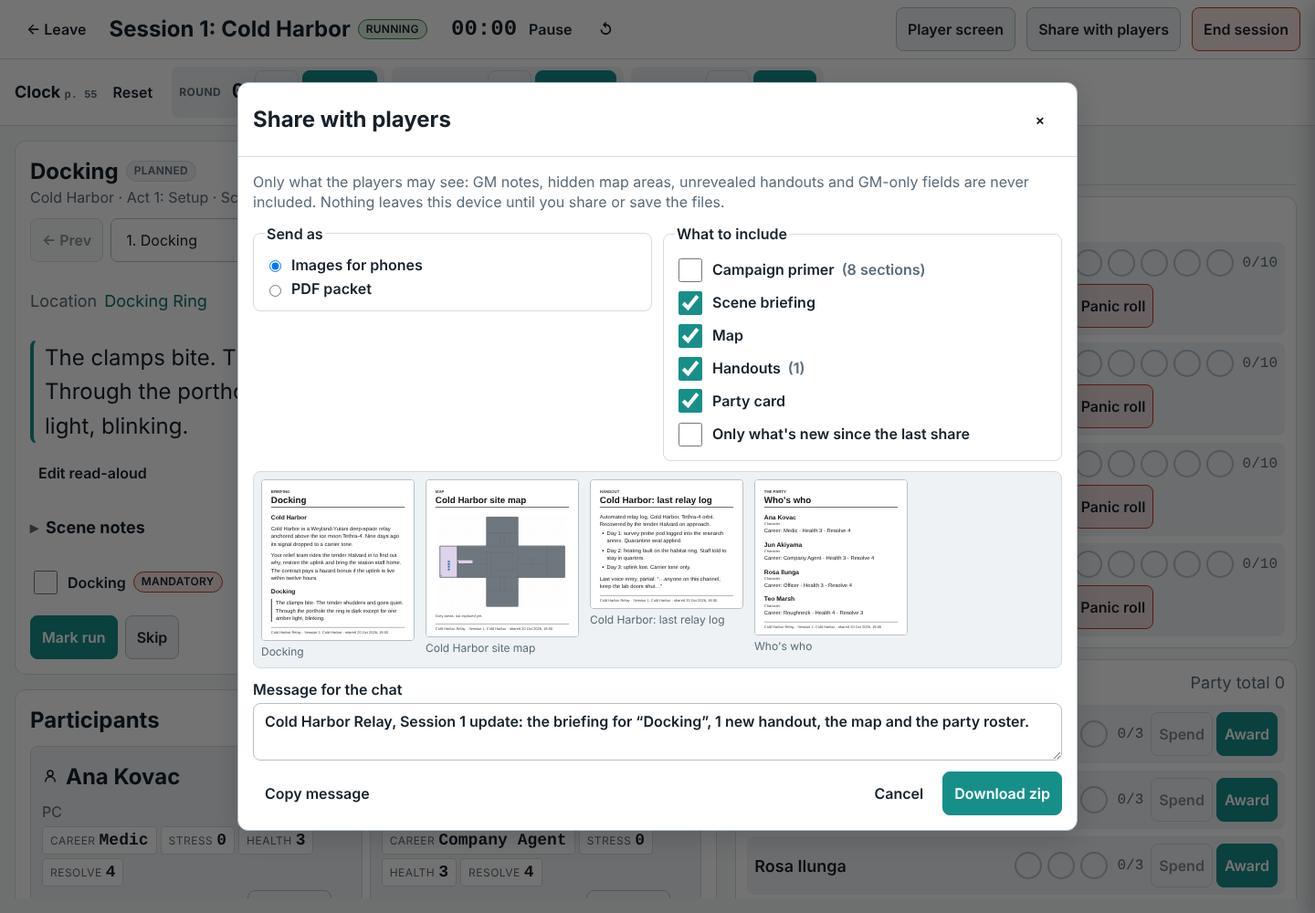
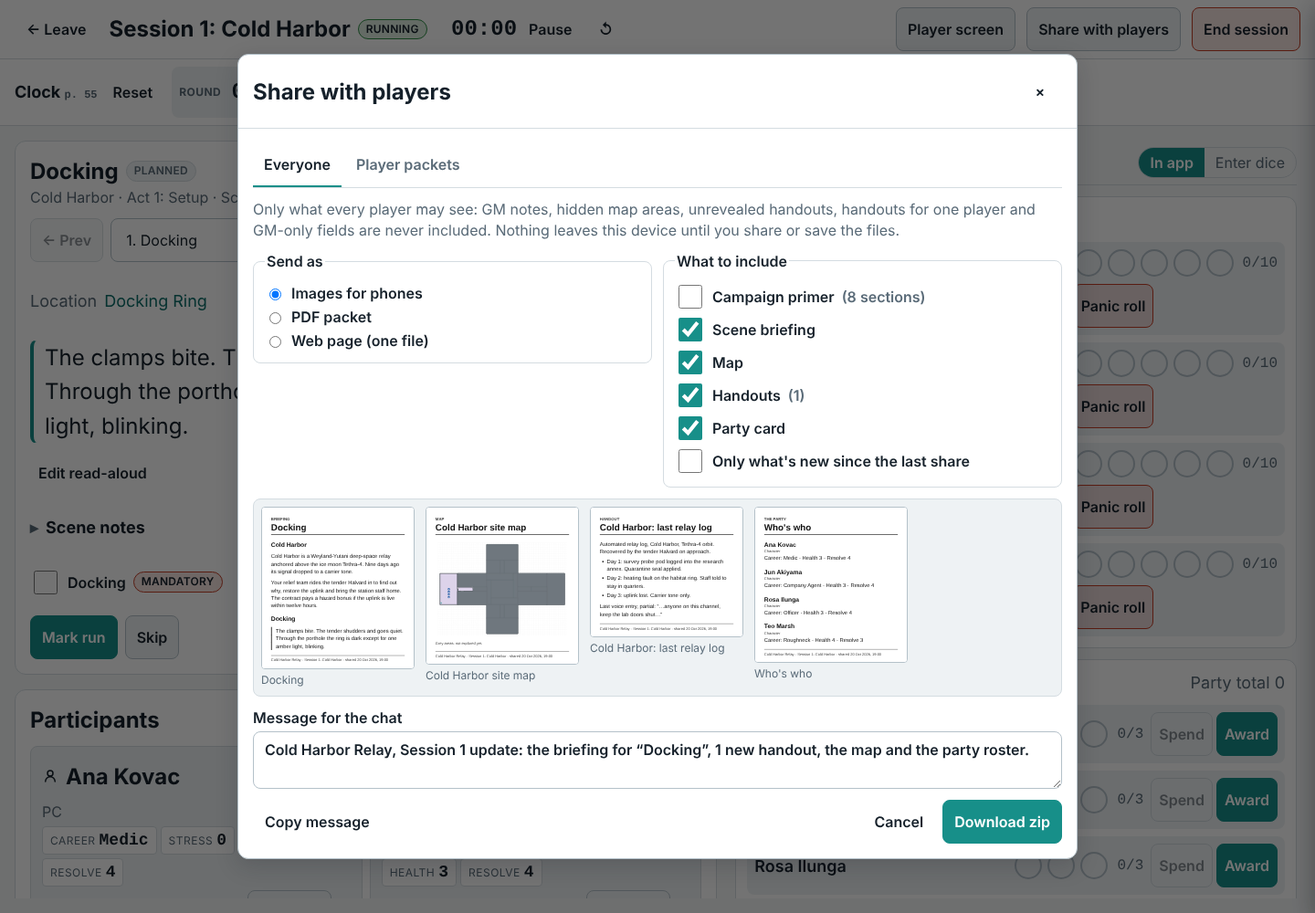
Publish player packets: e2e, screenshot and feature pages
The e2e adds two players in Settings on Cold Harbor, gives Avery her act 1
agenda, shares a new handout with her alone, exports both packets as web
pages in one zip and opens them: Avery's holds her agenda, sheet and the
handout, Blake's none of them. The player-packets shot shows Skyfire
Down's four players with Priya's page; share-players is re-shot with the
new tabs and web page format. app.md, alien.md and the README say what
packets do and how agendas reach their players.

Claude-Session: https://claude.ai/code/session_01PjoAoT19ZxbEizz2Vq94tE

Changed region(s): [[0.1562, 0.062, 0.8438, 0.961], [0.8438, 0.155, 0.9688, 0.217]]

diff --git a/apps/web/e2e/player-packets.spec.ts b/apps/web/e2e/player-packets.spec.ts
@@ -1,0 +1,144 @@
+/**
+ * Player packets end to end on the Cold Harbor demo: add two players in
+ * Settings, give Avery her act 1 agenda, share a new handout with her alone,
+ * export every player's packet as web pages in one zip, then open Avery's
+ * page: her agenda, her sheet and the shared handout. Blake's page holds none
+ * of Avery's private items. `SHARE_OUT=<dir>` keeps the downloads.
+ */
+import { mkdirSync, readFileSync, writeFileSync } from "node:fs";
+import { resolve } from "node:path";
+import { expect, test, type Download, type Page } from "@playwright/test";
+import { strFromU8, unzipSync } from "fflate";
+
+const OUT = process.env.SHARE_OUT;
+
+async function bytesOf(d: Download): Promise<Buffer> {
+  const buf = readFileSync(await d.path());
+  if (OUT) {
+    mkdirSync(OUT, { recursive: true });
+    writeFileSync(resolve(OUT, d.suggestedFilename()), buf);
+  }
+  return buf;
+}
+
+const nav = (page: Page, name: string) => page.getByRole("navigation", { name: "Campaign" }).getByRole("link", { name, exact: true });
+
+async function addPlayer(page: Page, name: string, contact: string, pcIndex: number): Promise<string> {
+  const card = page.getByTestId("players-card");
+  await card.getByTestId("player-new-name").fill(name);
+  await card.getByTestId("player-new-contact").fill(contact);
+  await card.getByTestId("player-add").click();
+  const pcs = card.getByRole("group", { name: `Characters ${name} plays` });
+  await expect(pcs).toBeVisible();
+  const chip = pcs.getByRole("checkbox").nth(pcIndex);
+  const label = (await chip.getAttribute("aria-label")) ?? "";
+  await chip.check();
+  await expect(chip).toBeChecked();
+  return label.replace(`${name} plays `, "");
+}
+
+test("player packets: each player gets their own agenda, sheet and shared handout, and nothing of another's", async ({ page, context }) => {
+  test.setTimeout(120_000);
+  const errors: string[] = [];
+  page.on("pageerror", (e) => errors.push(e.message));
+  // this browser shares no files: the desktop download path
+  await page.addInitScript(() => {
+    delete (Navigator.prototype as { share?: unknown }).share;
+    delete (Navigator.prototype as { canShare?: unknown }).canShare;
+  });
+  await page.setViewportSize({ width: 1400, height: 1000 });
+  await page.goto("/");
+  await page.getByTestId("load-demo-cinematic").click();
+  await expect(page).toHaveURL(/\/c\/[0-9A-Z]{26}\/home$/, { timeout: 30_000 });
+
+  // 1. players in Settings, each with a PC
+  await nav(page, "Settings").click();
+  await expect(page.getByTestId("players-card")).toBeVisible();
+  const avPc = await addPlayer(page, "Avery", "@avery in the group chat", 0);
+  const blPc = await addPlayer(page, "Blake", "@blake", 1);
+  expect(avPc).not.toBe(blPc);
+  await expect(page.getByTestId("player-row")).toHaveCount(2);
+
+  // 2. the act's handouts: give Avery her act 1 agenda, and share a new handout with her alone
+  await nav(page, "Adventures").click();
+  await page.getByTestId("adventure-card").filter({ hasText: "Cold Harbor" }).click();
+  await page.getByTestId("view-outline").click();
+  const outline = page.getByTestId("outline");
+  await outline.getByRole("button", { name: /^Act 1/ }).click();
+  const act = page.getByTestId("act-editor");
+  await expect(act).toBeVisible();
+  const give = act.getByRole("checkbox", { name: /to Avery$/ });
+  await expect(give).toHaveCount(1);
+  await give.check();
+  await expect(give).toBeChecked();
+  const avAgendaRow = act.locator("li.prep-handout").filter({ has: page.getByRole("checkbox", { name: /to Avery$/ }) });
+  await avAgendaRow.getByRole("button", { name: /^Expand / }).click();
+  const avAgendaText = ((await avAgendaRow.locator(".ProseMirror").innerText()) ?? "").trim().split("\n")[0]!.trim();
+  expect(avAgendaText.length).toBeGreaterThan(10);
+
+  await act.getByRole("button", { name: "+ Handout" }).click();
+  // the new handout is the last row (agendas list first)
+  const row = act.locator("li.prep-handout").last();
+  const title = row.getByLabel("Handout title");
+  await expect(title).toHaveValue("New handout");
+  await title.fill("Coded message for Avery");
+  await title.press("Enter");
+  await expect(title).toHaveValue("Coded message for Avery");
+  await row.getByLabel("Visibility", { exact: true }).selectOption("some_players");
+  await row.getByRole("checkbox", { name: "Share with Avery" }).check();
+  await row.getByRole("button", { name: /^Expand / }).click();
+  await row.locator(".ProseMirror").click();
+  await page.keyboard.type("Meet me at the cargo airlock at 0300. Come alone.");
+  await page.waitForTimeout(400);
+
+  // 3. Share, Player packets: a preview per player, then all of them as a zip
+  await nav(page, "Sessions").click();
+  await page.getByRole("button", { name: "Start session 1" }).click();
+  await expect(page.getByTestId("table-mode")).toBeVisible();
+  await page.getByTestId("share-players").click();
+  await page.getByRole("tab", { name: /Player packets/ }).click();
+  const dialog = page.getByTestId("packets-dialog");
+  await expect(dialog.getByTestId("packet-player")).toHaveCount(2);
+  await expect(dialog.getByTestId("packet-title")).toHaveText(/^Cold Harbor Relay for Avery: Session 1/);
+  const preview = dialog.frameLocator("[data-testid=share-preview-page]");
+  await expect(preview.getByRole("heading", { name: "Cold Harbor Relay for Avery" })).toBeVisible();
+  await expect(preview.getByRole("heading", { name: "Coded message for Avery" })).toBeVisible();
+  await dialog.getByRole("button", { name: "Preview Blake's packet" }).click();
+  await expect(dialog.getByTestId("packet-title")).toHaveText(/^Cold Harbor Relay for Blake: Session 1/);
+  await expect(preview.getByRole("heading", { name: "Cold Harbor Relay for Blake" })).toBeVisible();
+  await expect(preview.locator("body")).not.toContainText("Coded message for Avery");
+
+  const download = page.waitForEvent("download");
+  await dialog.getByTestId("packets-export-all").click();
+  const zip = await download;
+  expect(zip.suggestedFilename()).toBe("cold-harbor-relay-session-1-player-packets.zip");
+  const files = unzipSync(new Uint8Array(await bytesOf(zip)));
+  expect(Object.keys(files).sort()).toEqual(["cold-harbor-relay-session-1-for-avery.html", "cold-harbor-relay-session-1-for-blake.html"]);
+  const avery = strFromU8(files["cold-harbor-relay-session-1-for-avery.html"]!);
+  const blake = strFromU8(files["cold-harbor-relay-session-1-for-blake.html"]!);
+
+  // 4. open Avery's packet: her agenda, her sheet and the handout shared with her
+  const reader = await context.newPage();
+  await reader.setContent(avery);
+  await expect(reader).toHaveTitle(/^Cold Harbor Relay for Avery: Session 1/);
+  await expect(reader.getByRole("heading", { name: avPc, exact: true })).toBeVisible();
+  await expect(reader.locator("section[data-kind=character]")).toContainText("Stress");
+  await expect(reader.getByText(avAgendaText, { exact: false })).toBeVisible();
+  await expect(reader.locator("section", { hasText: "Coded message for Avery" })).toContainText("Meet me at the cargo airlock");
+  await expect(reader.locator("section", { hasText: "Coded message for Avery" }).locator(".eyebrow")).toHaveText("Just for Avery");
+  await expect(reader.locator("body")).not.toContainText("@avery");
+
+  // Blake's packet: his own sheet, none of Avery's private items
+  await reader.setContent(blake);
+  await expect(reader.getByRole("heading", { name: blPc, exact: true })).toBeVisible();
+  const body = reader.locator("body");
+  await expect(body).not.toContainText("Coded message for Avery");
+  await expect(body).not.toContainText("Meet me at the cargo airlock");
+  await expect(body).not.toContainText(avAgendaText);
+  await expect(reader.locator("section[data-kind=character]")).toHaveCount(1);
+  await reader.close();
+
+  // the packets were recorded per player: the dialog now says what changed since each one
+  await expect(page.getByTestId("packet-changes").first()).toContainText("Since");
+  expect(errors).toEqual([]);
+});

diff --git a/apps/web/screenshots/readme.spec.ts b/apps/web/screenshots/readme.spec.ts
@@ -611,6 +611,25 @@ test("share-players", async ({ page }) => {
   await shot(page, "share-players");
 });
 
+test("player-packets", async ({ page }) => {
+  // Skyfire Down session 1: Share, Player packets: the four players, and Priya's packet as the web page she gets (her sheet, her agenda, the note shared with her alone)
+  await page.setViewportSize({ width: 1440, height: 1100 });
+  await loadDemo(page, "skyfire");
+  await startSession1(page);
+  await page.getByTestId("share-players").click();
+  await page.getByRole("tab", { name: /Player packets/ }).click();
+  const dialog = page.getByTestId("packets-dialog");
+  await expect(dialog.getByTestId("packet-player")).toHaveCount(4);
+  await dialog.getByRole("button", { name: "Preview Priya's packet" }).click();
+  await expect(dialog.getByTestId("packet-title")).toHaveText(/^Skyfire Down for Priya/);
+  const preview = dialog.frameLocator("[data-testid=share-preview-page]");
+  await expect(preview.getByRole("heading", { name: "An unsigned note" })).toBeVisible();
+  await expect(dialog.getByTestId("packet-send")).toBeEnabled();
+  // the players at the top, Priya's page below them
+  await dialog.locator(".app-packets").evaluate((el) => el.scrollIntoView({ block: "start" }));
+  await shot(page, "player-packets");
+});
+
 test("primer", async ({ page }) => {
   // Cold Harbor's campaign primer: the module's prompts in grey, the demo's own text, places drafted from player-visible locations
   await page.setViewportSize({ width: 1440, height: 1000 });

diff --git a/apps/web/src/features/share/shareLayout.ts b/apps/web/src/features/share/shareLayout.ts
@@ -205,7 +205,9 @@ export function packetSections(input: ShareLayoutInput & { share: PlayerPacket }
     if (c.conditions.length) blocks.push({ kind: "para", text: `Conditions: ${c.conditions.join(", ")}`, style: "lead" });
     for (const s of c.sections) {
       blocks.push({ kind: "heading", text: s.title });
-      for (const r of s.rows) blocks.push({ kind: "para", text: `${r.label}: ${r.value}`, style: "bullet" });
+      // a section that is one field of the same name (Gear, Skills) reads as its value
+      if (s.rows.length === 1 && s.rows[0]!.label === s.title) blocks.push({ kind: "para", text: s.rows[0]!.value });
+      else for (const r of s.rows) blocks.push({ kind: "para", text: `${r.label}: ${r.value}`, style: "bullet" });
     }
     out.push({ id: `character:${c.id}`, kind: "character", eyebrow: share.characters.length > 1 ? "One of your characters" : "Your character", title: c.name, blocks, file: `sheet-${slugOf(c.name)}` });
     if (c.agenda) {

diff --git a/apps/web/src/features/share/share.css b/apps/web/src/features/share/share.css
@@ -99,7 +99,7 @@
   margin: 0;
   padding: 0;
   display: grid;
-  grid-template-columns: repeat(auto-fill, minmax(260px, 1fr));
+  grid-template-columns: repeat(auto-fill, minmax(190px, 1fr));
   gap: var(--cf-space-2);
 }
 .app-packets__player {

diff --git a/docs/features/app.md b/docs/features/app.md
@@ -17,7 +17,8 @@ What Campaign Forge does for every game system. Features that belong to one game
 - **Table tools.** Scene cards, rounds/stretches/shifts clock, stress and panic roller, critical injuries (including the android table), initiative cards, supply rolls, countdowns, a xenomorph life-cycle tracker and a session checklist that modules extend. A Hints tab says what each attribute and skill is for in the story and rolls it for the best-placed PC.
 - **Combat for d20 games.** Modules and data packs that declare their d20 combat (where a combatant's AC, hit points, saves, damage modifiers and attacks live, how attacks and saves resolve, their conditions) get a combat panel in table mode: the initiative order with the current turn (*Next turn* ticks condition durations, end-of-turn decrements and save-ends saves), hit points with damage, healing and temporary hit points, AC and speed with their conditions, and condition chips whose helper text says what each condition does, what the app applies by itself, what it leaves to the GM, how long it lasts and where it came from. Attacks pick an attacker, one of its attacks (from a stat block or a sheet) and a target, roll with advantage or disadvantage from the conditions on both sides (the reasons shown, the GM can override), say hit, miss or critical hit and why, roll damage (critical hits as the module says) and apply it through the target's resistances, weaknesses and immunities, with the module's rule at 0 hit points; save effects roll each target's save against the DC for full or half damage and conditions. Checks and saves rolled from a sheet carry the conditions' modifiers. Every roll can be typed from the table; everything is logged for the GM only, and the player screen shows only how hurt the visible combatants are.
 - **Dice rolled at the table.** For groups who roll physical dice, every roll can take the faces instead: the roll panel, table mode's one-tap rolls (stress, panic, supply, critical injuries, broken and life-cycle checks, creature attacks and reactions, special attacks, duct events, prompt answers), initiative, travel checks and each generator step. One box per die in the order the rules read them, labelled from the dice system (base and stress dice, a d20 pair for advantage, a push's re-rolled dice only), with a 2d6 total, a d66 or a percentile typed as one number; faces the dice cannot show are refused inline. Outcomes, pushes, table rows and effects are exactly an app roll's, and the log marks the roll "entered" with its faces. A switch on each roll surface and in table mode flips between rolling in the app and entering dice; *I roll physical dice* in Settings makes entering the default on that device.
-- **Share with players.** From table mode or a session page, send the player view to the group chat without a server: phone-sized cards (the scene briefing, the map with fog exactly as the player screen shows it, each revealed handout, an optional party card) or one black-and-white PDF packet in Letter or A4. Built from the player projection only (no GM notes, hidden zones, GM map layers, unrevealed or per-player handouts, or GM-only fields), drawn on the device, then handed to the phone's share sheet (Messages, Messenger, WhatsApp) or downloaded as a zip on desktops. Each share is recorded in the session, so the next one can send only what is new, with a ready-to-paste chat message.
+- **Share with players.** From table mode or a session page, send the player view to the group chat without a server: phone-sized cards (the scene briefing, the map with fog exactly as the player screen shows it, each revealed handout, an optional party card), one black-and-white PDF packet in Letter or A4, or one self-contained web page. Built from the player projection only (no GM notes, hidden zones, GM map layers, unrevealed or per-player handouts, or GM-only fields), drawn on the device, then handed to the phone's share sheet (Messages, Messenger, WhatsApp) or downloaded as a zip on desktops. Each share is recorded in the session, so the next one can send only what is new, with a ready-to-paste chat message.
+- **Players and player packets.** Settings lists the players at the table: a name, a contact note for the GM and the PC or PCs each plays (a PC's sheet shows and sets its player). Visibility on entities, handouts and single fields (*Field visibility…* on a sheet) can name chosen players, and a handout written for a character can be given to its player. *Share with players → Player packets* then makes each player their own copy to send them alone: what every player may see, what was shared with them, and their own character's sheet and agenda with the fields the module shows a character's own player (`"x-visibility": "owner"` in the schema, `ownerHandouts` for handout kinds). Each player's preview is exactly their file, as phone images, a PDF or one self-contained web page titled "for <player>", one player at a time or all of them as a zip, with what changed since their last packet. Packets are built through that player's projection only, so GM notes, hidden map areas, GM-only fields and another player's private material never reach them; the group share still leaves every per-player item out.
 - **Campaign primer.** A player-facing introduction for session 0 (the pitch, the setting, what everyone knows, places and factions, tone and safety tools, house rules, making characters, where we begin), edited as rich text with the module's prompts and starter text in original words. *Draft from campaign* fills sections from player-visible places, factions, timeline, characters and the adventure's player intro, never from GM-only records or fields. It is linked from campaign home and session 0, and shared like a session: one phone card per section or pages of the PDF packet. Modules and data packs can supply their own prompts (`primer` in the contract and the pack format).
 - **Printed booklets.** A black-and-white GM booklet (Letter or A4) with a title page, cast cards, locations and puzzles, the site map and each act's scenes with boxed read-aloud text, plus cut-out agenda cards for the players.
 - **GM screen.** A printable quick reference for every game system, built from the module's own rule cards, tables, lists, conditions and play guide (*Rules → GM screen*): a landscape tri-fold with the GM side and a player side, on Letter, A4, 11×17 or A3, or one card per panel for a binder. Pick the panels, their order and size; the preview shows both sides at scale; type shrinks to fit, table rows never split, and anything left out is listed. Vector PDF in the booklet's black and white, with the module's licence notice and attribution and every block's page or section. Modules and data packs declare it as `gmScreen`; one without gets a screen from its rule cards. See [GM screen](../modules/gm-screen.md).
@@ -63,6 +64,10 @@ The shots use the demo campaigns (load them from the campaign list); most show t
 **Share with players**: the player-safe share of a session, previewed as the phone cards it sends (briefing, fogged map, revealed handout, party), with what to include, "only what's new" and the message for the chat.
 
 ![Share with players](../screenshots/share-players.png)
+
+**Player packets**: Skyfire Down's four players, each with what their packet holds, and Priya's packet previewed as the web page she gets: her sheet, her agenda, and the note shared with her alone.
+
+![Player packets](../screenshots/player-packets.png)
 
 **Campaign primer**: Cold Harbor's session 0 introduction, with the module's prompt above each section, the demo's own text and the places drafted from player-visible locations; *Share primer* sends it as phone cards or a PDF.
 

diff --git a/docs/features/alien.md b/docs/features/alien.md
@@ -4,13 +4,14 @@
 
 The `alien` module (`packages/module-alien`): a companion to the Free League rulebook, not a replacement. It encodes structure, tables and mechanics as data and cites the page; it does not reproduce the book's prose or art. The data has been checked against the printed Evolved Edition core rules; [`docs/verification/`](../verification/README.md) records what was corrected.
 
-Demos: *Skyfire Down* (campaign play, with an infection under way and the crew's long-term agendas one job in) and *Cold Harbor Relay* (a cinematic one-shot built with the guided builder, with a generated site map, duct levels and live map state ready for session 1).
+Demos: *Skyfire Down* (campaign play, with an infection under way, the crew's long-term agendas one job in and four players, one note shared with one of them) and *Cold Harbor Relay* (a cinematic one-shot built with the guided builder, with a generated site map, duct levels and live map state ready for session 1).
 
 ## What it adds
 
 - **Guided adventure builder.** A step-by-step cinematic scenario builder (basics, situation, cast, locations and puzzles, three acts, review) with a field guide and page references on every step.
 - **Agenda drafts.** A generator for cinematic play (no AI) that deals each PC one of 24 original three-act arcs (The Plant, The Debtor, The Protector, The Hidden Synthetic, The Mutineer…) weighted by a betrayal dial (loyal crew, frayed, knives out), and fills every slot from the campaign: who they answer to (the Company the adventure names, a rival corporation, the marshals, family, a belief, a synthetic's directive…), why, an objective per act aimed at the adventure's PCs (buddies and rivals), NPCs, key items, locations and site map rooms (fallbacks such as "the specimen" when the campaign has none), who to keep it from, and a catch. Objectives escalate from quiet in Acts 1-2 to open in Act 3 and aim at the climax, and each act notes how pursuing it earns the act's Story Point (risk or sacrifice, p. 158). A conflict check scores every pair (opposed objectives on the same target, competing masters, rivals), caps the party at one Hidden Synthetic and one Company plant, wants every PC in a clash and enough friction, and re-deals (seeded) when the deal fails, reporting each try. The drafts are marked DRAFT: re-roll or pin any slot, lock an arc, edit the text, then *Accept agendas* writes them onto each PC's sheet and the adventure's agenda cards, asking before it replaces text you wrote. Open it from the guided builder's PCs step or the Generate page.
 - **Campaign agendas.** The campaign-play counterpart (no AI): each PC gets a long-term personal goal that lasts several jobs (24 original goals such as A stake in a ship, Union card, Make amends, The captain's chair), who they answer to, why, an embarrassing secret, and a fresh beat on every job: one concrete thing to do at a personal cost, with the bonus XP it can earn (p. 27, 30). The goal's one line stays on the sheet as the personal agenda, so the XP question and shore leave's Pursue Agenda (p. 257) keep working. Open friction lines, dealt by a friction dial (calm, simmering, prickly) and weighted per crew, tell every player whom they clash with and over what: competing for pay, berths and gear, clashing loyalties, embarrassing secrets that endanger no one, and buddies and rivals from the sheets. Friction, never betrayal: every goal, beat, line, secret and tension step is tagged level 0-1, and a no-betrayal check (no stance against a crewmate, no dangerous secret, tension under its cap, everyone in a clash, nobody the target of everything) plus a banned-words scan runs on every deal. Accepting writes each goal onto the sheet, a GM-only agenda handout and a players' friction handout per PC. After each job (in the session wrap-up, or *Deal next beats* on a PC's Agenda tab) mark each goal advanced, stalled or resolved: the next beat is dealt, a stall raises the tension one step (quiet disagreement, open argument, hard words, and no further), a resolved goal draws a follow-up that fits it, and the handouts update. A rule card covers agendas in campaign play and friction, not betrayal; the GM screen has an Agendas and friction panel.
+- **Agendas reach their players.** In a player packet (*Share with players → Player packets*) each PC's player gets the sheet they play from (stats, stress, health, gear, XP, conditions) and their personal agenda with the campaign agenda's goal, this job's beat and the tension, even though all of it stays GM-only for everyone else; the agenda's embarrassing secret and history, the android box, the secret synthetic and NPC dossier fields and the other PCs' agendas stay out. A cinematic agenda card goes to its player once the GM ticks *Give to <player>* on it (on the act's handouts or the guided builder's PCs step), so each act's agenda can be handed out when that act starts. The open friction handouts already go to everyone.
 - **Combat.** Creature turns roll or pick the creature's signature attack, rank targets by range from the live map and roll the attack dice; damage tracking with health bars, armor and broken PCs; reactions such as acid splash; special attacks (disarm, shove, grapple and more) with opposed rolls. Creature rolls stay GM-only.
 - **Weapons on the character sheet.** A Weapons section beside Gear lists each weapon with its stat line as the gear tables print it (modifier, damage with E, stun or fire, range, ammo or power, features, weight), and the weapons count toward encumbrance with the gear. *Add weapon* opens a searchable picker of the book's personal weapons grouped ranged, melee and explosive (vehicle-mounted guns left out), each with modifier, damage, range, weight, cost and page; picking one copies its stats onto the sheet. *From campaign items* links a weapon item from the Atlas, and *Custom weapon* adds a row to fill in. A new PC or NPC created in the Atlas can pick starting weapons before it is saved. At the table, *Attack with …* (Dice tab, or the PC card's Attack button) rolls Close Combat at Adjacent range and Ranged Combat beyond, with the weapon's modifier and −2 per band inside its minimum range, shows the damage with extra successes, and applies the hit to a creature or NPC through its armor (armor piercing, stun and fire included); entered dice work too.
 - **Ship and money.** A Ship page for campaign play: the crew's ship with its hull, component damage, spare parts, provisions, cargo and upkeep; crew funds summed from a ledger (add entries, filter by category, running balance, CSV export); a travel planner that works out FTL time and the checks on arrival, then departs, rolls them and moves the in-world date; one-click job payments; and a Between jobs procedure for the pay, the lease, repairs and spare parts, food and water, then shore leave and the next job. Categories the book prices cite their page; docking, fuel and loans are plain GM bookkeeping.

diff --git a/README.md b/README.md
@@ -9,7 +9,7 @@ For Alien, Campaign Forge is a companion to the rulebook, not a replacement. The
 - **Local-first.** Campaigns live in the browser, work offline at the table and export to a zip bundle. No server, no accounts.
 - **Prep.** Adventures, scenes, sessions, a timeline, handouts and linked notes; characters and places rendered from each game's sheet; seeded generators with full roll provenance; printed GM booklets.
 - **At the table.** Scene cards, clocks, initiative, trackers and a Hints tab that says what each stat is for in the story and who is best at it. d20 combat with attacks, damage, saves and conditions whose helper text says what they do. Roll in the app or type in the physical dice your table rolled.
-- **For the players.** A session 0 campaign primer, and *Share with players*: the player view as phone cards or a PDF for the group chat, with nothing GM-only in it.
+- **For the players.** A session 0 campaign primer, *Share with players*: the player view as phone cards, a PDF or a web page for the group chat, with nothing GM-only in it, and a private packet per player with their own sheet, agenda and what was shared with them alone.
 - **Any game system.** Modules as TypeScript packages or JSON data packs, four dice engines, supplements for extra options, and tools to build and check your own ([author guide](docs/modules/README.md)).
 
 More in **[App features](docs/features/app.md)**.
